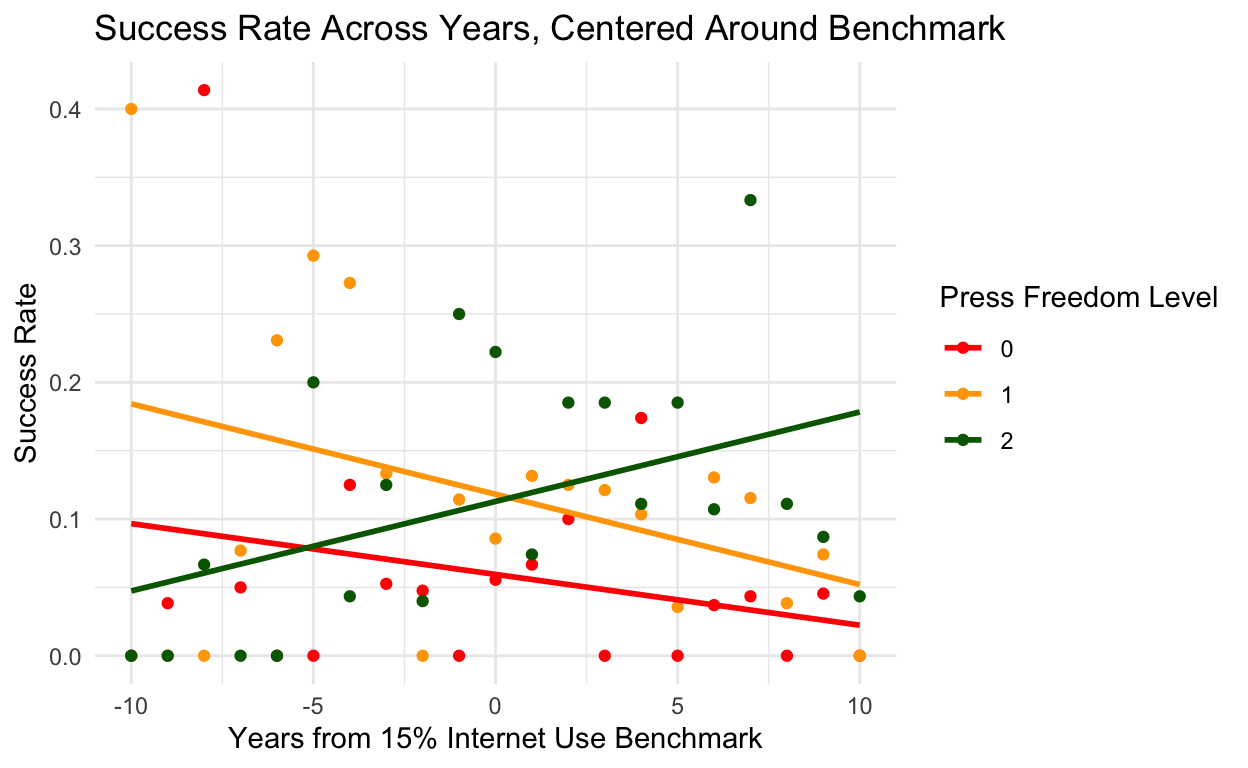
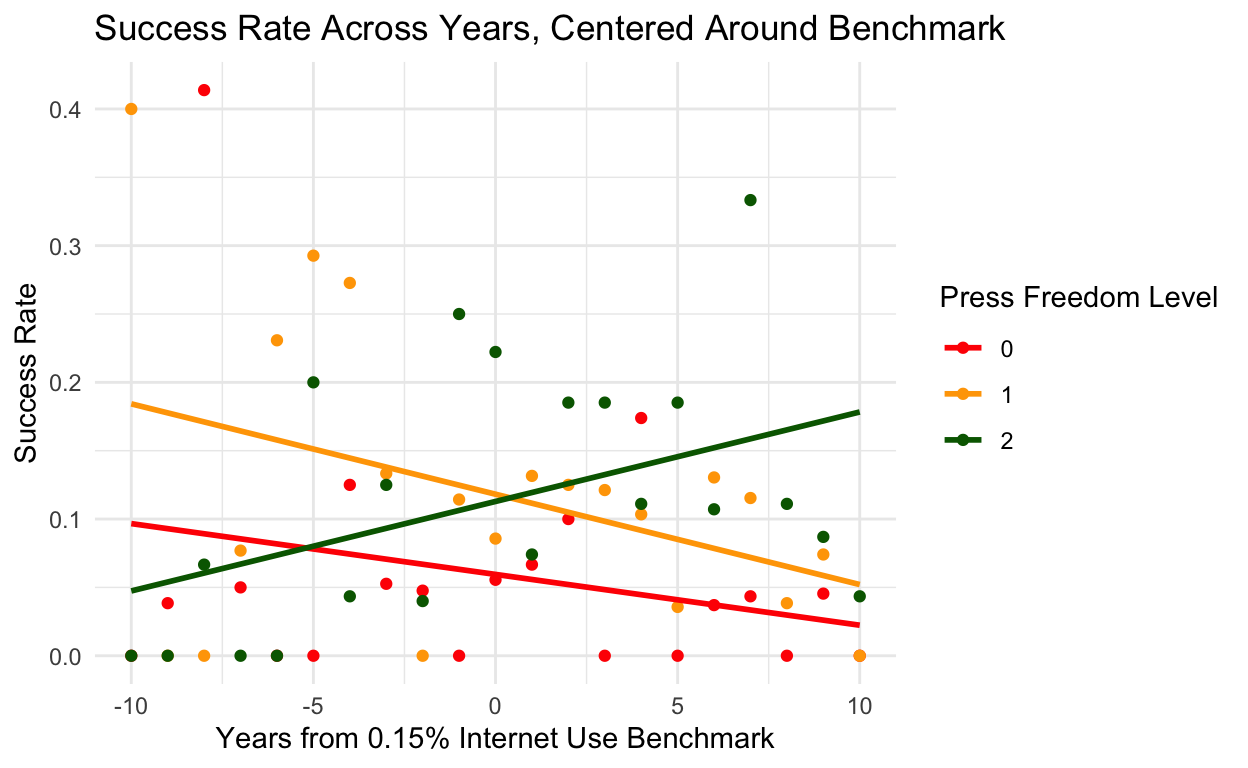
references, final edits

Changed region(s): [[0.1562, 0.9375, 0.625, 1.0]]

diff --git a/index.html b/index.html
@@ -1632,7 +1632,7 @@ code span.wa { color: #5e5e5e; font-style: italic; } /* Warning */
 <span><span class='va'>SDM_freedomlevel_successrate</span><span class='op'>$</span><span class='va'>press_freedom</span> <span class='op'>&lt;-</span> <span class='fu'><a href='https://rdrr.io/r/base/factor.html'>as.factor</a></span><span class='op'>(</span><span class='va'>SDM_freedomlevel_successrate</span><span class='op'>$</span><span class='va'>press_freedom</span><span class='op'>)</span></span></code></pre>
 </div>
 </div>
-<p>The other key transformation was to anchor each SDM to the proliferation of internet usage in their central governments’ territories. I accomplished this by choosing a somewhat arbitrary benchmark year and creating a new variable for the time (in years) between a given SDM and that benchmark. For the benchmark, I chose the year in which each SDM’s central government’s population reached 15% internet usage, which I figured to be a significant enough share that the internet would have become somewhat accessible to non-super-elites, yet small enough that presently developing countries would not completely fade out of my reference group.</p>
+<p>The other key transformation was to anchor each SDM to the proliferation of internet usage in their central governments’ territories. I accomplished this by choosing a somewhat arbitrary benchmark year and creating a new variable for the time (in years) between a given SDM and that benchmark. For the benchmark, I chose the year in which each SDM’s central government’s population reached 0.15% internet usage, which I figured to be a significant enough share that the internet would have attained relevance among elites (and that non-elites would be somewhat aware of its existence), yet small enough that presently developing countries would not completely fade out of my reference group.</p>
 <div class="layout-chunk" data-layout="l-body">
 <div class="sourceCode">
 <pre class="sourceCode r"><code class="sourceCode r"><span><span class='va'>internet_benchmark</span> <span class='op'>&lt;-</span> <span class='va'>internet</span> <span class='op'>|&gt;</span></span>
@@ -1645,8 +1645,6 @@ code span.wa { color: #5e5e5e; font-style: italic; } /* Warning */
 <span><span class='va'>internet_benchmark</span> <span class='op'>&lt;-</span> <span class='va'>internet_benchmark</span> <span class='op'>|&gt;</span></span>
 <span>  <span class='fu'><a href='https://dplyr.tidyverse.org/reference/filter.html'>filter</a></span><span class='op'>(</span><span class='op'>!</span><span class='fu'><a href='https://rdrr.io/r/base/NA.html'>is.na</a></span><span class='op'>(</span><span class='va'>Code</span><span class='op'>)</span><span class='op'>)</span> <span class='op'>|&gt;</span></span>
 <span>  <span class='fu'><a href='https://dplyr.tidyverse.org/reference/filter.html'>filter</a></span><span class='op'>(</span><span class='va'>usage_rate</span> <span class='op'>&lt;</span> <span class='fl'>1</span><span class='op'>)</span></span>
-<span></span>
-<span><span class='co'>#create distance in years variable from internet usage variable to "anchor" SDMs</span></span>
 <span></span>
 <span><span class='va'>SDM_freedom_internet</span> <span class='op'>&lt;-</span> <span class='fu'><a href='https://dplyr.tidyverse.org/reference/mutate-joins.html'>left_join</a></span><span class='op'>(</span><span class='va'>SDM_freedom</span>, <span class='va'>internet_benchmark</span>, by <span class='op'>=</span> <span class='fu'><a href='https://rdrr.io/r/base/c.html'>c</a></span><span class='op'>(</span><span class='st'>"Code"</span> <span class='op'>=</span> <span class='st'>"Code"</span><span class='op'>)</span><span class='op'>)</span></span>
 <span></span>
@@ -1669,7 +1667,7 @@ code span.wa { color: #5e5e5e; font-style: italic; } /* Warning */
 <span>  <span class='fu'><a href='https://ggplot2.tidyverse.org/reference/geom_point.html'>geom_point</a></span><span class='op'>(</span><span class='op'>)</span> <span class='op'>+</span></span>
 <span>  <span class='fu'><a href='https://ggplot2.tidyverse.org/reference/geom_smooth.html'>geom_smooth</a></span><span class='op'>(</span>method <span class='op'>=</span> <span class='st'>"lm"</span>, se <span class='op'>=</span> <span class='cn'>FALSE</span><span class='op'>)</span> <span class='op'>+</span></span>
 <span>  <span class='fu'><a href='https://ggplot2.tidyverse.org/reference/labs.html'>labs</a></span><span class='op'>(</span>title <span class='op'>=</span> <span class='st'>"Success Rate Across Years, Centered Around Benchmark"</span>,</span>
-<span>       x <span class='op'>=</span> <span class='st'>"Years from 15% Internet Use Benchmark"</span>,</span>
+<span>       x <span class='op'>=</span> <span class='st'>"Years from 0.15% Internet Use Benchmark"</span>,</span>
 <span>       y <span class='op'>=</span> <span class='st'>"Success Rate"</span>,</span>
 <span>       color <span class='op'>=</span> <span class='st'>"Press Freedom Level"</span><span class='op'>)</span> <span class='op'>+</span></span>
 <span>  <span class='fu'><a href='https://ggplot2.tidyverse.org/reference/scale_manual.html'>scale_color_manual</a></span><span class='op'>(</span>values <span class='op'>=</span> <span class='fu'><a href='https://rdrr.io/r/base/c.html'>c</a></span><span class='op'>(</span><span class='st'>"red"</span>, <span class='st'>"orange"</span>, <span class='st'>"darkgreen"</span><span class='op'>)</span><span class='op'>)</span> <span class='op'>+</span>  <span class='co'># Customize colors if needed</span></span>
@@ -1827,7 +1825,7 @@ F-statistic: 7.009 on 1 and 19 DF,  p-value: 0.01589</code></pre>
 </tbody>
 </table>
 </div>
-<p>These coefficients imply that for every additional year centered around the 15% internet-adoption benchmark, the success rate of SDMs in the free group increases by about 0.66 percentage points, and the success rate of SDMs in the less-than-free group decreases by about 0.51 percentage points. Across a 20 reference interval, these results are practically significant — for example, in the free group, the coefficient implies a roughly 13 percentage-point difference from 10 years before the benchmark to 10 years after. A 13% house edge on a casino table game, say, would drive any reasonable gambler to another locale.</p>
+<p>These coefficients imply that for every additional year centered around the 0.15% internet-adoption benchmark, the success rate of SDMs in the free group increases by about 0.66 percentage points, and the success rate of SDMs in the less-than-free group decreases by about 0.51 percentage points. Across a 20 reference interval, these results are practically significant — for example, in the free group, the coefficient implies a roughly 13 percentage-point difference from 10 years before the benchmark to 10 years after. A 13% house edge on a casino table game, say, would drive any reasonable gambler to another locale.</p>
 <p>To test for statistical significance, we can look to p values. The p values of the regression coefficients for the free and unfree groups were 0.0477917 and 0.0158854, respectively. Therefore, with an alpha of 0.05, we may reject — with 95% confidence — the null hypothesis that there is no impact of the explanatory variable (distance from the internet usage benchmark) on the dependent variable (SDM success rate for a given year).</p>
 <p>Furthermore, the standard errors associated with these regression results allow us to construct a 95% confidence interval, or the range of values so defined that there is a 95% probability that the value of the regression lies within it.</p>
 <div class="layout-chunk" data-layout="l-body">
@@ -1850,13 +1848,13 @@ bench_dist -0.009244766 -0.001081336</code></pre>
 Some aspects of my experimental design also carried their own implicit assumptions. I assumed, for instance, that one-year intervals would be the ideal measure of SDM success rate. I also included what the Sambanis et al dataset defines as “cultural concessions,” or the “binary variable flagging concessions on cultural or minority rights, including concessions on language rights, religion, and education,” among the successful outcomes. Perhaps it would have been better to include only the SDMs that gained full independence; with only 13 entries falling into that category, however, the sample size probably would have been too small to identify a relationship.</p>
 <p>Another study focusing on the same research question, but backed by more time, money, and expertise, might conduct a more lengthy robustness test to isolate potential confounders (like those identified above). It also might go beyond this relatively rudimentary correlational study and specifically assess whether each SDM employed the internet in their pursuit of SD, which would better isolate causal mechanisms than relying on the mere presence of the internet in a given central government’s controlled territory. Finally, a study with unlimited financial and ethical capital might conduct a randomized controlled trial (RCT), wherein an internet-related treatment is assigned to some nascent SDMs and not others, with their successes monitored. Such an RCT would be borderline impossible, however, and a case-by-case revamping of the core dataset would require very significant labor — thus, given the constraints this study faces, I am satisfied with the differential correlational relationship that it has identified.</p>
 <h1 id="references">References</h1>
-<p>OWID Democracy</p>
-<p>McChesney</p>
-<p>Jacob Groshek and Kate Mays</p>
-<p>Leizhen Zang et al</p>
-<p>Nicholas Sambanis’s, Micha Germann’s and Andreas Schädel’s SDM: A New Data Set on Self-determination Movements with an Application to the Reputational Theory of Conflict</p>
-<p>Freedom House’s freedom of the press index scores</p>
-<p>Our World in Data’s “Share of the population using the Internet” dataset</p>
+<p>“Expanding Freedom and Democracy.” <em>Freedom House</em>, freedomhouse.org/. Accessed 9 Dec. 2023.</p>
+<p>Groshek, Jacob, and Kate Mays. “A Time-Series, Multinational Analysis of Democratic Forecasts and Emerging Media Diffusion, 1994–2014.” <em>International Journal of Communication</em>, ijoc.org/index.php/ijoc/article/view/5676/1910. Accessed 9 Dec. 2023.</p>
+<p>Herre, Bastian, et al. “Democracy.” <em>Our World in Data</em>, 25 Sept. 2023, ourworldindata.org/democracy.</p>
+<p>McChesney, Robert Waterman. <em>Rich Media, Poor Democracy: Communication Politics in Dubious Times.</em> The New Press, 2015.</p>
+<p>Sambanis, Nicholas, et al. “SDM: A new data set on self-determination movements with an application to the reputational theory of conflict.” <em>Journal of Conflict Resolution</em>, vol. 62, no. 3, 2017, pp. 656–686, <a href="https://doi.org/10.1177/0022002717735364" class="uri">https://doi.org/10.1177/0022002717735364</a>.</p>
+<p>“Share of the Population Using the Internet.” <em>Our World in Data</em>, ourworldindata.org/grapher/share-of-individuals-using-the-internet. Accessed 9 Dec. 2023.</p>
+<p>Zang, Leizhen, et al. “Reversing the U: New Evidence on the Internet and Democracy Relationship.” <em>Social Science Computer Review</em>, 2018, journals.sagepub.com/doi/10.1177/0894439318767957.</p>
 <div class="sourceCode" id="cb6"><pre class="sourceCode r distill-force-highlighting-css"><code class="sourceCode r"></code></pre></div>
 <!--radix_placeholder_article_footer-->
 <!--/radix_placeholder_article_footer-->
